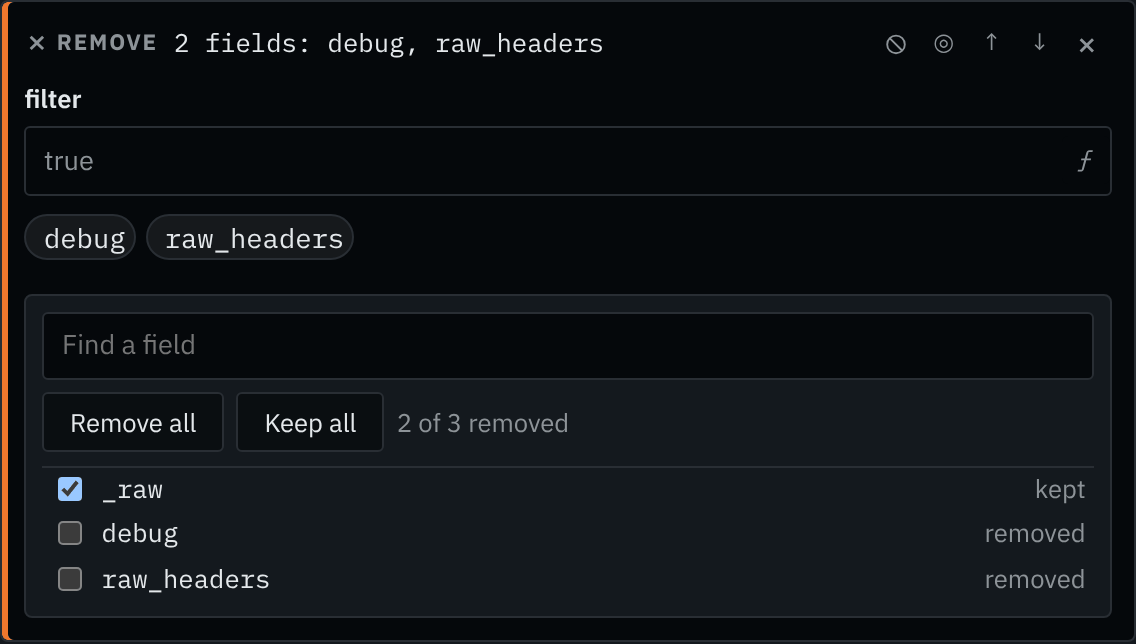
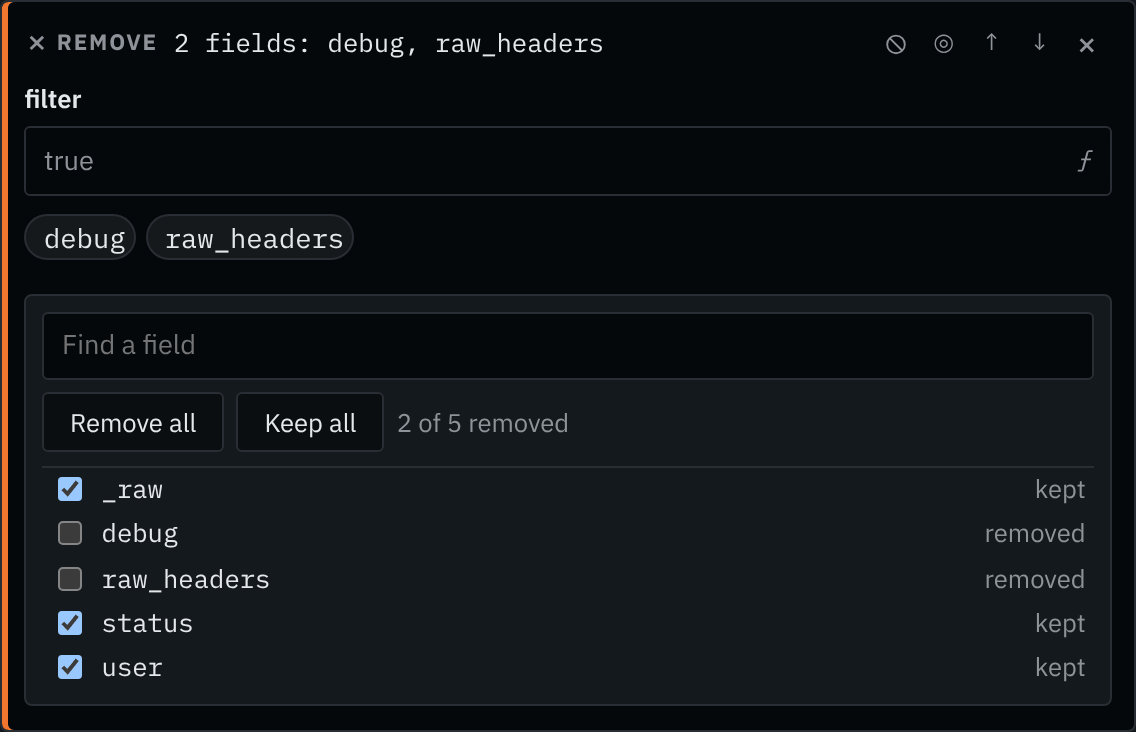
Remove step page: examples declare their fields; a null is left out
Each example's parser declares the record's fields, so the step's list in its
card shows them, and the filter example says a null field is left out.

Claude-Session: https://claude.ai/code/session_016X7h2Up93FTzm5MPSM2jwR

diff --git a/website/src/routes/docs/steps/remove/+page.svelte b/website/src/routes/docs/steps/remove/+page.svelte
@@ -33,6 +33,10 @@
   </p>
 
   <h2 id="example">Example</h2>
+  <p>
+    The parser declares the record's fields, so the step's list shows them, beside
+    <code>_raw</code>, the text the parser read.
+  </p>
   <StepExample example={examples.basic} />
   <p>The step does not name <code>user</code> or <code>status</code>, so they pass through.</p>
 
@@ -65,6 +69,7 @@
   </p>
   <p>The parser declares <code>level</code> and <code>trace</code> as <code>str</code>.</p>
   <StepExample example={examples.filtered} />
+  <p>A null field is left out of the JSON shown.</p>
 
   <h3 id="edges">Missing fields</h3>
   <p>A record without the field passes the step unchanged:</p>
